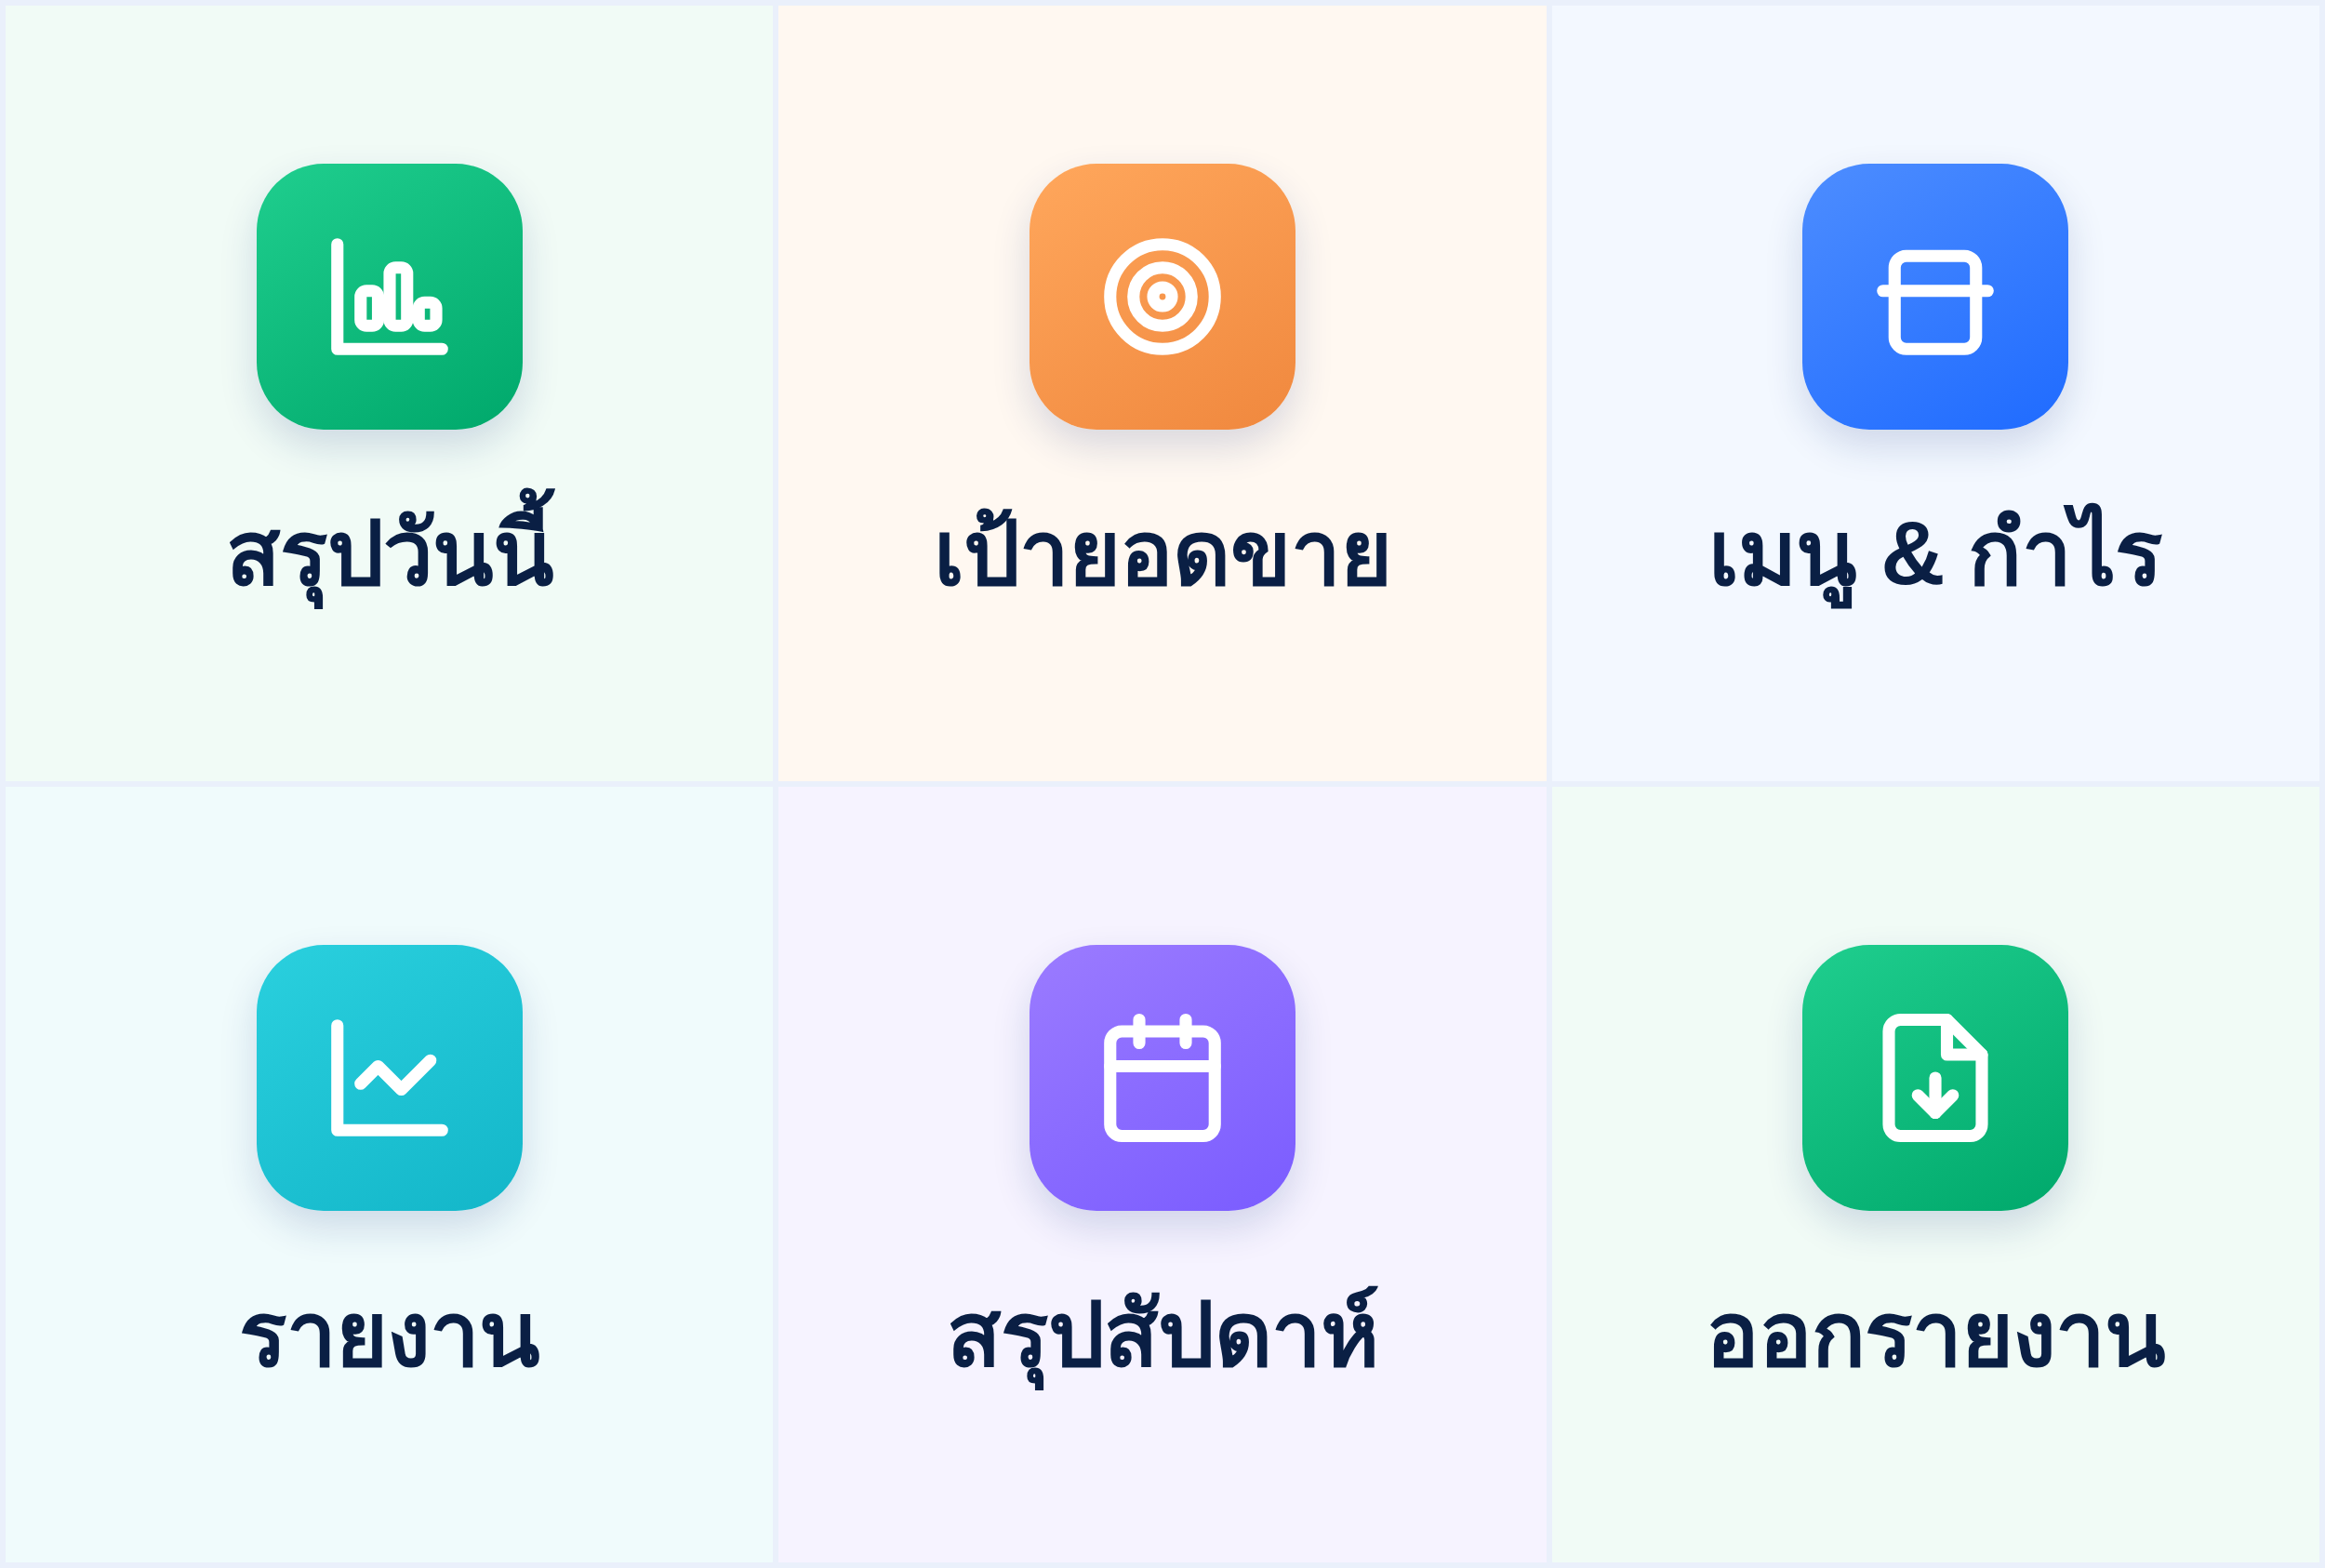
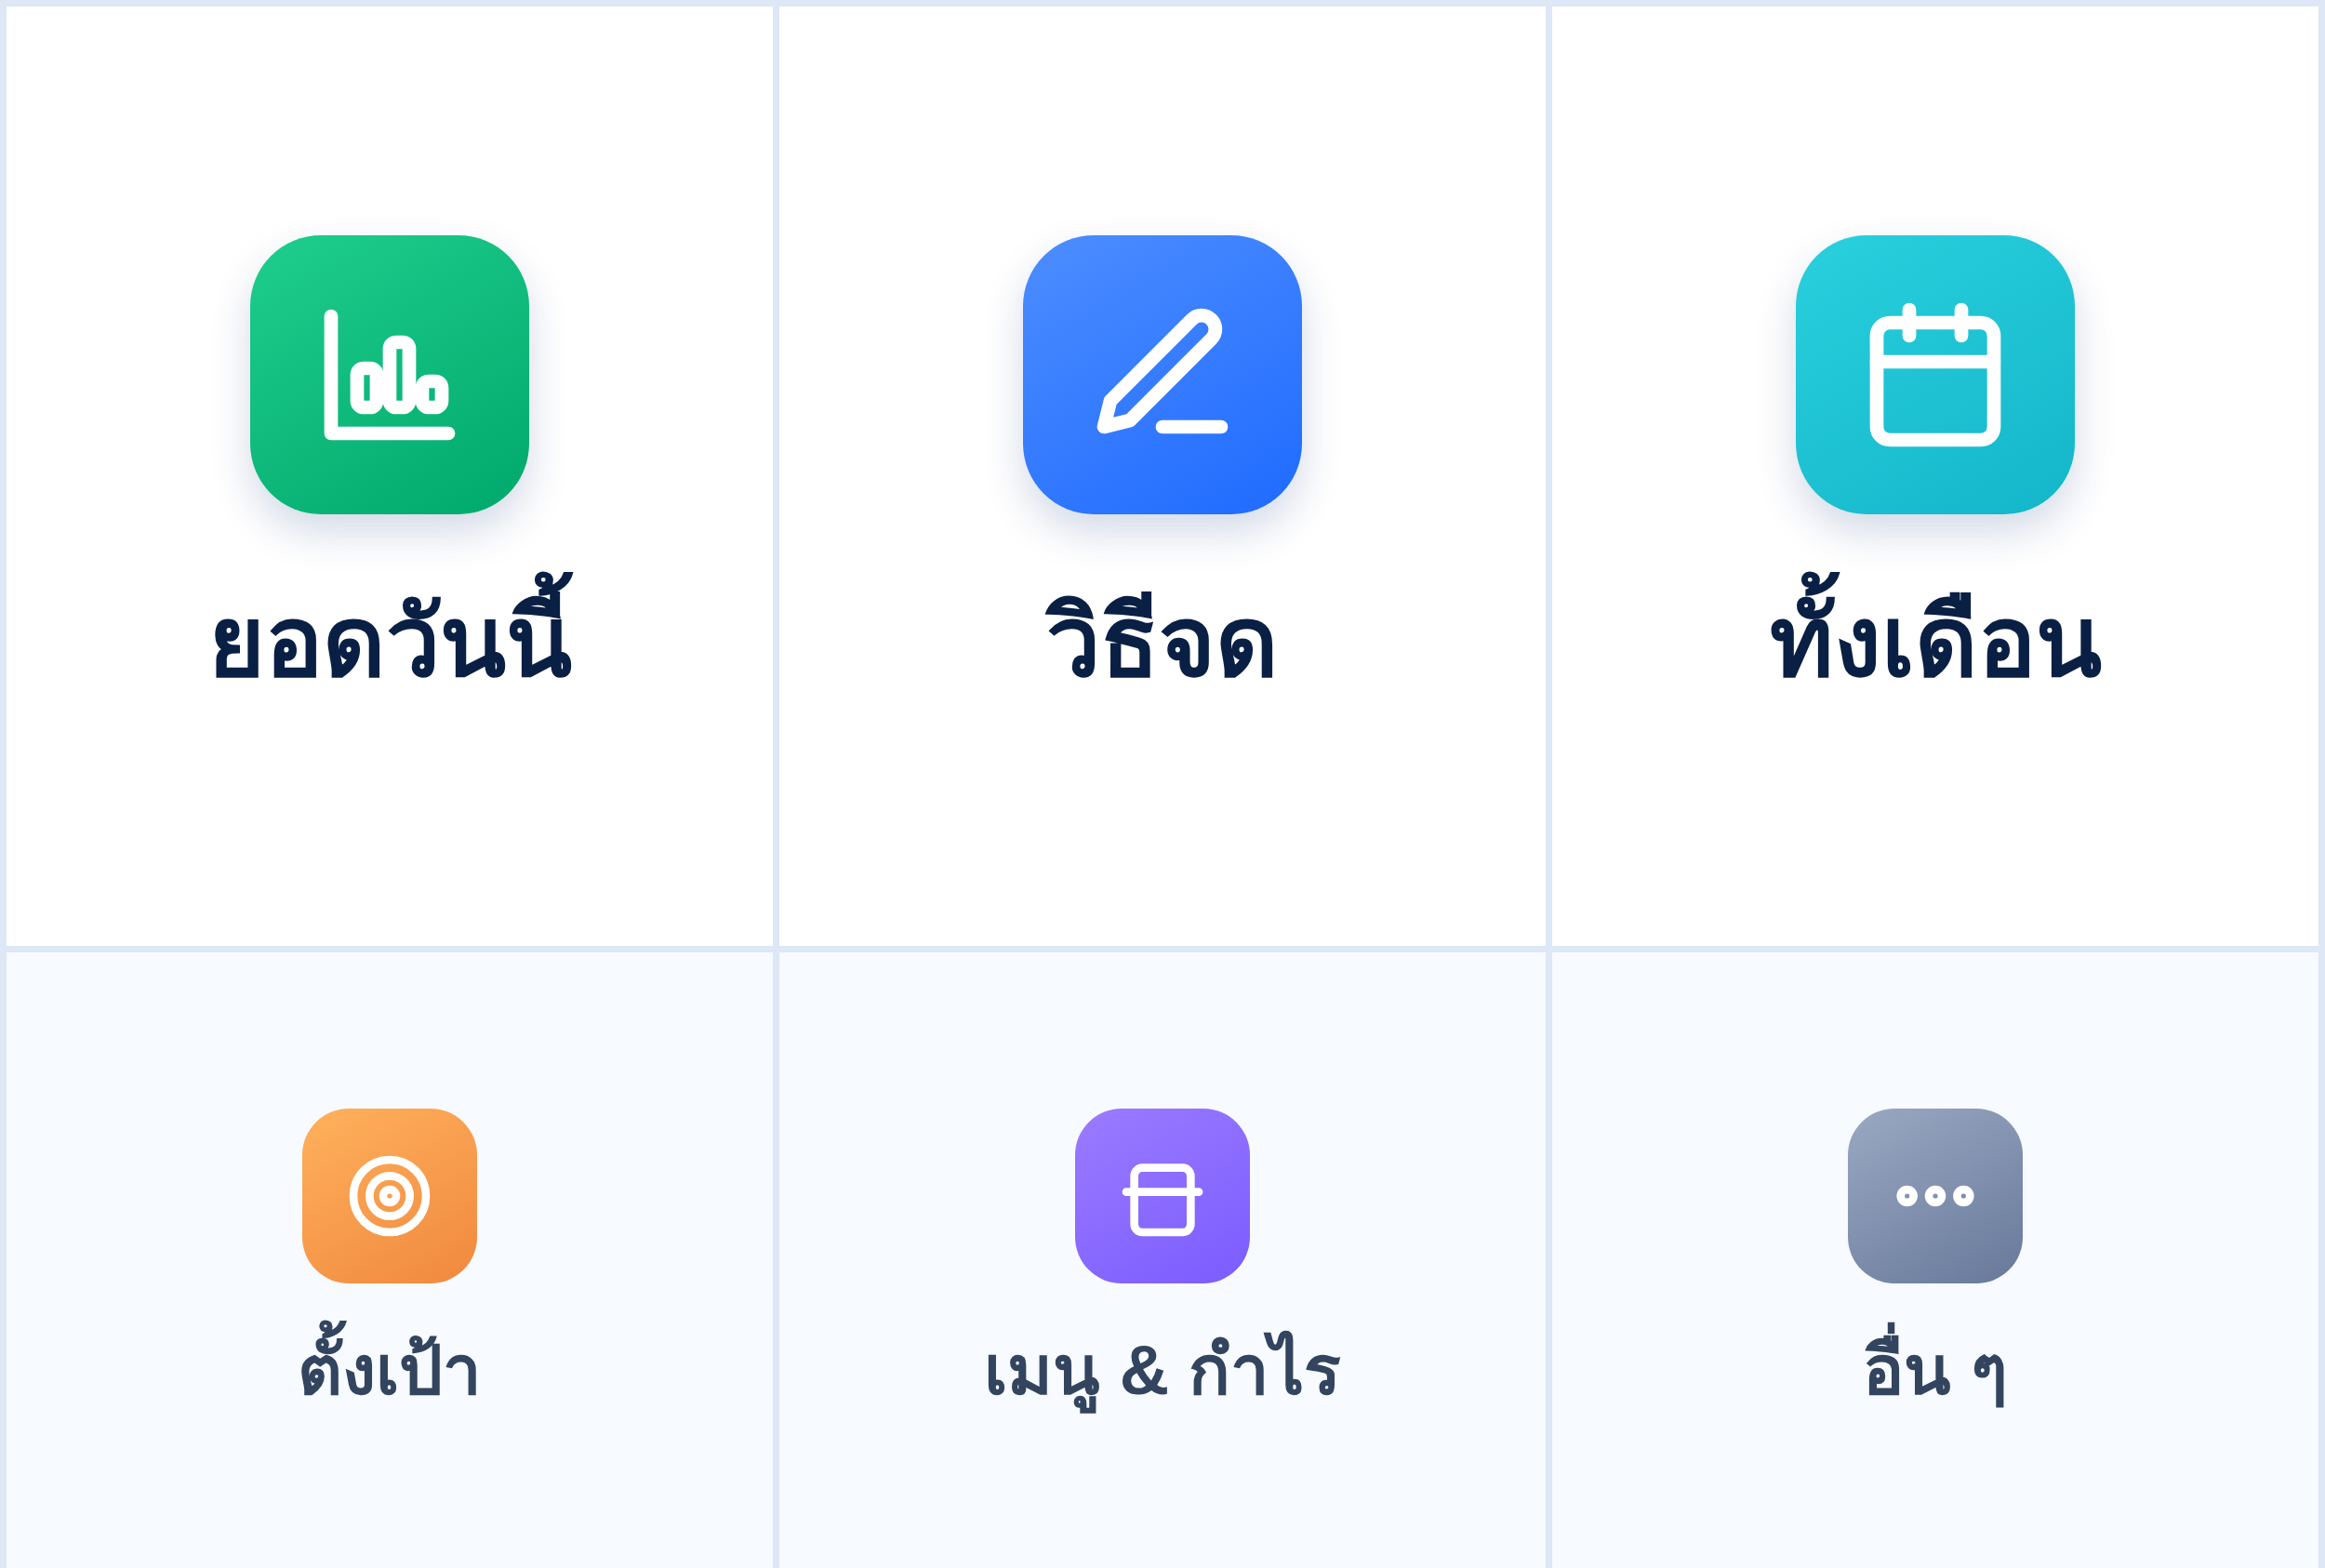
Add files via upload

diff --git a/baengbao-bot/server.js b/baengbao-bot/server.js
@@ -99,16 +99,32 @@ async function linePush(to, messages) {
 }
 const baht = n => Number(n).toLocaleString('th-TH');
 
-async function lineReply(replyToken, messages) {
+// ปุ่มกดลัด (Quick Reply) — ให้คนที่พิมพ์ไม่คล่อง/สูงวัย กดแทนพิมพ์ได้ทุกข้อความ
+const QR_MAIN = {
+  items: [
+    { type: 'action', action: { type: 'message', label: '📊 ยอดวันนี้', text: 'สรุป' } },
+    { type: 'action', action: { type: 'message', label: '📅 ทั้งเดือน', text: 'รายงาน' } },
+    { type: 'action', action: { type: 'message', label: '✏️ วิธีจด', text: 'วิธีจด' } },
+    { type: 'action', action: { type: 'message', label: '🎯 เป้า', text: 'เป้า' } },
+    { type: 'action', action: { type: 'message', label: '☰ ดูทั้งหมด', text: 'ช่วย' } },
+  ],
+};
+function attachQR(messages, qr) {
+  if (!qr || !Array.isArray(messages) || !messages.length) return messages;
+  const last = messages[messages.length - 1];
+  if (last && typeof last === 'object' && !last.quickReply) last.quickReply = qr;
+  return messages;
+}
+async function lineReply(replyToken, messages, qr = QR_MAIN) {
   const res = await fetch('https://api.line.me/v2/bot/message/reply', {
     method: 'POST',
     headers: { 'Content-Type': 'application/json', Authorization: `Bearer ${CHANNEL_TOKEN}` },
-    body: JSON.stringify({ replyToken, messages }),
+    body: JSON.stringify({ replyToken, messages: attachQR(messages, qr) }),
   });
   if (!res.ok) console.error('[line] reply failed', res.status, await res.text());
 }
-const replyText = (token, text) => lineReply(token, [{ type: 'text', text }]);
-const replyFlex = (token, altText, contents) => lineReply(token, [{ type: 'flex', altText, contents }]);
+const replyText = (token, text, qr = QR_MAIN) => lineReply(token, [{ type: 'text', text }], qr);
+const replyFlex = (token, altText, contents, qr = QR_MAIN) => lineReply(token, [{ type: 'flex', altText, contents }], qr);
 
 async function getImageBase64(messageId) {
   const res = await fetch(`https://api-data.line.me/v2/bot/message/${messageId}/content`, {
@@ -162,6 +178,21 @@ function matchMenu(menus, itemName) {
     const mn = norm(m.name);
     return mn && (mn.includes(n) || n.includes(mn));
   }) || null;
+}
+
+// เฟส 23: โหมดมือใหม่ — คำชม + ขั้นถัดไป (คืน null ถ้าไม่ได้อยู่ในโหมดสอน)
+async function onboardNudge(identityId) {
+  const step = await db.getOnboard(identityId);
+  if (!step) return null;
+  if (step === 1) {
+    await db.setOnboard(identityId, 2);
+    return 'เก่งมากครับ! 🎉 จดให้เรียบร้อยแล้ว\n\nลองอีกสักครั้ง — คราวนี้จด "รายจ่าย" ที่ซื้อของดูครับ\nเช่น  ซื้อหมู 800';
+  }
+  if (step === 2) {
+    await db.setOnboard(identityId, 0);
+    return 'สุดยอดเลยครับ! 🎊 คุณใช้เป็นแล้ว\n\nต่อไปก็แค่จดทุกครั้งที่ขายหรือซื้อของ เดี๋ยวผมสรุปยอด-กำไรให้เองทุกวัน\n\nอยากดูยอดเมื่อไหร่ กดปุ่ม "📊 ยอดวันนี้" ข้างล่างได้เลยครับ 😊';
+  }
+  return null;
 }
 
 async function confirmAndSummary(userId, parsed, source) {
@@ -299,10 +330,12 @@ const HELP =
 // ---------- event handling ----------
 async function handleEvent(ev) {
   if (ev.type === 'follow') {
+    const newUserId = ev.source && ev.source.userId;
+    if (newUserId) { await db.upsertUser(newUserId); await db.setOnboard(newUserId, 1); }
     const w = flex.welcomeCarousel(liffUrl());
     return lineReply(ev.replyToken, [
       { type: 'flex', altText: w.altText, contents: w.contents },
-      { type: 'text', text: 'พิมพ์ "ช่วย" เมื่อไหร่ก็ได้ เพื่อดูวิธีใช้ทั้งหมดนะครับ 🙌' },
+      { type: 'text', text: 'มาลองใช้ด้วยกันเลยครับ 😊\n\nขั้นแรก ลองพิมพ์ยอดขายล่าสุดของวันนี้มาดูครับ\nเช่น  ขายข้าว 50\n\n(พิมพ์ของจริงได้เลย เดี๋ยวผมจดให้ — หรือพิมพ์ "ข้าม" ถ้าไม่อยากให้สอน)' },
     ]);
   }
   if (ev.type !== 'message' || !ev.source || ev.source.type !== 'user') return;
@@ -319,6 +352,26 @@ async function handleEvent(ev) {
     try {
       if (['ช่วย', 'help', 'วิธีใช้', 'เริ่ม', 'start'].some(k => t.includes(k)))
         return replyText(ev.replyToken, HELP);
+
+      if (raw === 'ข้าม' || raw.includes('ข้ามการสอน') || t === 'skip') {
+        if (await db.getOnboard(identityId) > 0) {
+          await db.setOnboard(identityId, 0);
+          return replyText(ev.replyToken, 'ได้เลยครับ ข้ามการสอนแล้ว 👌\nอยากดูวิธีจดเมื่อไหร่ พิมพ์ "วิธีจด" หรือกดปุ่มข้างล่างได้ตลอดนะครับ');
+        }
+      }
+
+      if (['วิธีจด', 'จดยังไง', 'จดยังไ', 'สอนจด', 'จดอย่างไร', 'จดไง'].some(k => raw.includes(k))) {
+        return replyText(ev.replyToken,
+          'จดง่าย ๆ แบบนี้เลยครับ ✍️\n\n' +
+          '🟢 ขายของ — พิมพ์ของที่ขาย + ราคา\n' +
+          '   เช่น   ขายข้าวกะเพรา 50\n' +
+          '            ขายก๋วยเตี๋ยว 3 ชาม 150\n\n' +
+          '🟠 จ่ายเงิน — พิมพ์ของที่ซื้อ + ราคา\n' +
+          '   เช่น   ซื้อหมู 800\n' +
+          '            จ่ายค่าน้ำแข็ง 60\n\n' +
+          '📸 หรือถ่ายรูปบิล/สลิป ส่งมาได้เลย เดี๋ยวผมอ่านให้\n\n' +
+          'อยากดูยอด กดปุ่มข้างล่างได้เลยครับ 👇');
+      }
 
       // ===== เฟส 20: ระบบเพิ่มพนักงาน (แชร์บัญชีร้าน) — ใช้ identityId =====
       const isStaff = userId !== identityId; // ถ้าบัญชีข้อมูล != ตัวเอง แปลว่าเป็นพนักงาน
@@ -560,14 +613,20 @@ async function handleEvent(ev) {
       { const q = await overQuota(userId); if (q.over) return replyText(ev.replyToken, quotaMessage(q)); }
       const parsed = await ai.parseText(raw);
       if (!parsed.is_transaction)
-        return replyText(ev.replyToken, parsed.reply_hint || HELP);
+        return replyText(ev.replyToken, parsed.reply_hint ||
+          'ขอโทษครับ ผมไม่ค่อยแน่ใจว่าหมายถึงอะไร 🙏\n\n' +
+          'ถ้าจะ "จดขาย" พิมพ์ เช่น  ขายข้าว 50\n' +
+          'ถ้าจะ "จดจ่าย" พิมพ์ เช่น  ซื้อหมู 800\n' +
+          'หรือกดปุ่มข้างล่างได้เลยครับ 👇');
       if (parsed.amount == null)
-        return replyText(ev.replyToken, 'รับทราบว่าเป็นรายการ แต่ยังไม่เห็นยอดเงินเลยครับ ลองพิมพ์ยอดมาด้วยนะ เช่น "ซื้อหมู 800"');
+        return replyText(ev.replyToken, 'รับทราบว่าเป็นรายการ แต่ยังไม่เห็นยอดเงินเลยครับ 🙏\nลองพิมพ์ยอดมาด้วยนะ เช่น "ซื้อหมู 800"');
       const r = await confirmAndSummary(userId, parsed, 'text');
+      const nudge = await onboardNudge(identityId);
+      if (nudge) r.messages.push({ type: 'text', text: nudge });
       return lineReply(ev.replyToken, r.messages);
     } catch (e) {
       console.error('[text]', e.message);
-      return replyText(ev.replyToken, 'ขอโทษครับ ตอนนี้ประมวลผลไม่ได้ ลองพิมพ์ใหม่อีกครั้งนะ');
+      return replyText(ev.replyToken, 'ขอโทษครับ ตอนนี้ผมงง ๆ นิดหน่อย 🙏 ลองพิมพ์ใหม่อีกครั้ง หรือกดปุ่มข้างล่างได้เลยครับ');
     }
   }
 
@@ -588,6 +647,8 @@ async function handleEvent(ev) {
       if (!parsed.is_transaction || parsed.amount == null)
         return replyText(ev.replyToken, 'อ่านรูปแล้วแต่จับยอดไม่ชัดครับ ลองถ่ายให้เห็นยอดรวมชัดๆ หรือพิมพ์ยอดมาก็ได้');
       const r = await confirmAndSummary(userId, parsed, 'image');
+      const nudge = await onboardNudge(identityId);
+      if (nudge) r.messages.push({ type: 'text', text: nudge });
       return lineReply(ev.replyToken, r.messages);
     } catch (e) {
       console.error('[parseImage]', e.message);

diff --git a/baengbao-bot/db.js b/baengbao-bot/db.js
@@ -63,9 +63,8 @@ async function init() {
   await pool.query(`ALTER TABLE users ADD COLUMN IF NOT EXISTS invite_code TEXT;`);
   await pool.query(`CREATE UNIQUE INDEX IF NOT EXISTS idx_users_invite ON users (invite_code) WHERE invite_code IS NOT NULL;`);
   // เฟส 20: ระบบร้าน/พนักงาน (ใช้บัญชีข้อมูลร่วมกัน)
-  await pool.query(`ALTER TABLE users ADD COLUMN IF NOT EXISTS account_id TEXT;`);
-  await pool.query(`ALTER TABLE users ADD COLUMN IF NOT EXISTS invite_code TEXT;`);
-  await pool.query(`CREATE UNIQUE INDEX IF NOT EXISTS idx_users_invite ON users (invite_code) WHERE invite_code IS NOT NULL;`);
+  // เฟส 23: โหมดมือใหม่ (สอนทีละขั้น) — 0/NULL=ไม่อยู่ในโหมดสอน, 1..=ขั้นที่กำลังสอน
+  await pool.query(`ALTER TABLE users ADD COLUMN IF NOT EXISTS onboard_step INT DEFAULT 0;`);
   await pool.query(`
     CREATE TABLE IF NOT EXISTS bot_state (
       k TEXT PRIMARY KEY,
@@ -160,6 +159,15 @@ async function usageToday(lineUserId, dateStr) {
     [lineUserId, dateStr]
   );
   return rows[0] ? +rows[0].n : 0;
+}
+
+// เฟส 23: โหมดมือใหม่
+async function getOnboard(lineUserId) {
+  const { rows } = await pool.query(`SELECT COALESCE(onboard_step,0) AS s FROM users WHERE line_user_id=$1`, [lineUserId]);
+  return rows[0] ? +rows[0].s : 0;
+}
+async function setOnboard(lineUserId, step) {
+  await pool.query(`UPDATE users SET onboard_step=$2 WHERE line_user_id=$1`, [lineUserId, step]);
 }
 
 // เฟส 20: เพิ่มพนักงาน (แชร์บัญชีร้าน)
@@ -525,5 +533,6 @@ module.exports = {
   setCashFloat, getCashFloat, cashTotalsForDay, recurringMonthlyTotal, incomeSplitForMonth,
   getMembership, setMembership, usageToday, listUsersAdmin,
   accountOf, ensureInvite, findByInvite, joinShop, leaveShop, listShopMembers, countMembers,
+  getOnboard, setOnboard,
   createRecurring, listRecurring, deleteRecurring, toggleRecurring, recurringToRun, markRecurringRun,
 };

diff --git a/baengbao-bot/richmenu.js b/baengbao-bot/richmenu.js
@@ -12,12 +12,14 @@ function menuDefinition() {
     name: 'baengbao-main',
     chatBarText: 'เมนูแบ่งเบา',
     areas: [
-      { bounds: { x: 0,    y: 0,   width: 833, height: 843 }, action: { type: 'message', text: 'สรุป' } },
-      { bounds: { x: 833,  y: 0,   width: 834, height: 843 }, action: { type: 'message', text: 'เป้า' } },
-      { bounds: { x: 1667, y: 0,   width: 833, height: 843 }, action: { type: 'message', text: 'เมนู' } },
-      { bounds: { x: 0,    y: 843, width: 833, height: 843 }, action: { type: 'message', text: 'รายงาน' } },
-      { bounds: { x: 833,  y: 843, width: 834, height: 843 }, action: { type: 'message', text: 'สัปดาห์' } },
-      { bounds: { x: 1667, y: 843, width: 833, height: 843 }, action: { type: 'message', text: 'ออกรายงาน' } },
+      // แถวบน (ใหญ่ ใช้ทุกวัน) สูง 1010
+      { bounds: { x: 0,    y: 0,    width: 833, height: 1010 }, action: { type: 'message', text: 'สรุป' } },
+      { bounds: { x: 833,  y: 0,    width: 834, height: 1010 }, action: { type: 'message', text: 'วิธีจด' } },
+      { bounds: { x: 1667, y: 0,    width: 833, height: 1010 }, action: { type: 'message', text: 'รายงาน' } },
+      // แถวล่าง (เสริม) สูง 676
+      { bounds: { x: 0,    y: 1010, width: 833, height: 676 },  action: { type: 'message', text: 'เป้า' } },
+      { bounds: { x: 833,  y: 1010, width: 834, height: 676 },  action: { type: 'message', text: 'เมนู' } },
+      { bounds: { x: 1667, y: 1010, width: 833, height: 676 },  action: { type: 'message', text: 'ช่วย' } },
     ],
   };
 }

diff --git a/baengbao-bot/README.md b/baengbao-bot/README.md
@@ -488,3 +488,46 @@ resolve "บัญชีร้าน" ครั้งเดียวตอนต
 ## DB
 - คอลัมน์ใหม่: `users.account_id`, `users.invite_code` (+ unique partial index)
 - db: `accountOf, ensureInvite, findByInvite, joinShop, leaveShop, listShopMembers, countMembers`
+
+---
+
+# เฟส 21 — ใช้งานง่ายสำหรับผู้สูงวัย (1): ปุ่มกดแทนพิมพ์ + ปลอบใจเวลาทำผิด
+
+## Quick Reply ทุกข้อความ
+ทุกคำตอบของบอทจะมีปุ่มกดลัดเด้งเหนือคีย์บอร์ด — ไม่ต้องจำ/พิมพ์คำสั่ง:
+📊 ยอดวันนี้ · 📅 ทั้งเดือน · ✏️ วิธีจด · 🎯 เป้า · ☰ ดูทั้งหมด
+- ใส่อัตโนมัติผ่าน `replyText`/`replyFlex`/`lineReply` (แนบกับข้อความสุดท้าย) — ไม่ต้องแก้ทุกจุด
+
+## คำสั่ง "วิธีจด"
+สอนจดแบบเป็นตัวอย่างจับต้องได้ (ขายข้าว 50 / ซื้อหมู 800 / ถ่ายรูปบิล)
+
+## ปลอบใจเวลาพิมพ์ผิด
+พิมพ์ไม่เข้าใจ → ไม่ขึ้น error/เมนูยาว แต่บอกนุ่ม ๆ พร้อมตัวอย่าง + ปุ่มกด
+catch error → ข้อความเป็นกันเอง ไม่ใช่ศัพท์เทคนิค
+
+---
+
+# เฟส 22 — ใช้งานง่ายสำหรับผู้สูงวัย (2): Rich Menu ใหม่
+
+ออกแบบใหม่ให้ผู้สูงวัยกดง่าย:
+- แถวบน (ใหญ่ เด่น = ใช้ทุกวัน): **ยอดวันนี้** / **วิธีจด** / **ทั้งเดือน**
+- แถวล่าง (เล็กลง = เสริม): ตั้งเป้า / เมนู & กำไร / อื่น ๆ
+- ภาษาบ้าน ๆ ("ยอดวันนี้" แทน "สรุปวันนี้"), ปุ่มหลักตัวใหญ่กดง่าย, ตัด Excel/สัปดาห์ ออกจากเมนูหลัก (ไปอยู่ใน "อื่น ๆ"/พิมพ์เอาได้)
+
+## อัปเดต
+1. push `richmenu.png` (ใหม่ — binary upload) + `richmenu.js` (bounds/คำสั่งใหม่)
+2. เปิด `/admin/setup-richmenu?key=<ADMIN_KEY>` อีกครั้ง
+
+---
+
+# เฟส 23 — ใช้งานง่ายสำหรับผู้สูงวัย (3): โหมดมือใหม่ จับมือสอนทำ
+
+พอแอดเพื่อนครั้งแรก บอทพาทำจริงทีละขั้น พร้อมคำชม:
+1. follow → การ์ดต้อนรับ + "ลองพิมพ์ยอดขายมาดูครับ เช่น ขายข้าว 50" (onboard_step=1)
+2. จดครั้งแรก → "เก่งมากครับ! 🎉 ลองจดรายจ่ายดูบ้าง เช่น ซื้อหมู 800" (step=2)
+3. จดครั้งที่สอง → "สุดยอดเลยครับ! 🎊 คุณใช้เป็นแล้ว" + ชี้ปุ่มยอดวันนี้ (step=0 จบ)
+
+- ข้ามได้ทุกเมื่อด้วยคำว่า "ข้าม"
+- คำชมต่อท้ายข้อความยืนยันการจด (ไม่รบกวน flow เดิม)
+- เก็บสถานะใน `users.onboard_step` · ผูกกับตัวบุคคล (identityId) ไม่ใช่บัญชีร้าน
+- db: `getOnboard`, `setOnboard` · server: `onboardNudge()`